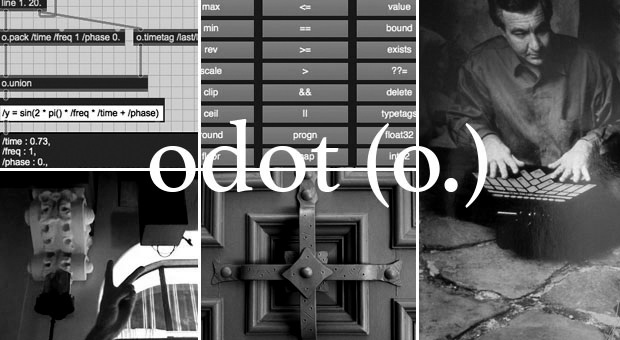
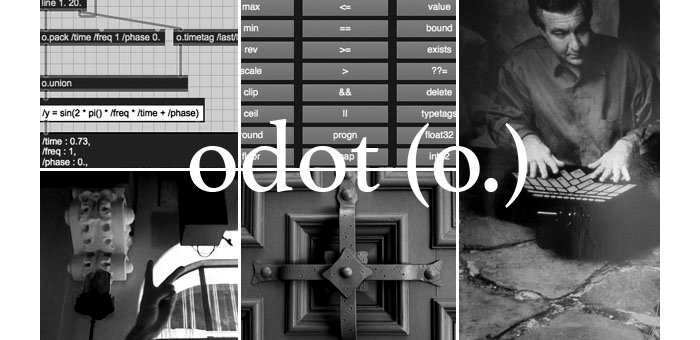
some changes

diff --git a/_includes/head.html b/_includes/head.html
@@ -6,5 +6,5 @@
 	<link rel="stylesheet" href="{{ "/style-colors.css" | prepend: site.baseurl }}">
 	<link rel="shortcut icon" type="image/jpg" href="/assets/favicon.jpg">
 	<link href="https://fonts.googleapis.com/css?family=Open+Sans" rel="stylesheet">
-	<!-- <meta name="viewport" content="width=device-width, initial-scale=1.0"> -->
+	<meta name="viewport" content="width=device-width, initial-scale=1.0">
 </head>

diff --git a/style-layout.css b/style-layout.css
@@ -29,6 +29,10 @@ img[src*="#right"] {
    padding-top: 1.5em;
    padding-bottom: 1.5em;
 }
+img[src*="#smaller"] {
+    padding-top:3em;
+    padding-bottom:3em;
+}
 
 .content {
     margin-top:2em;

diff --git a/_posts/art/audio/2016-09-01-bergen-assembly.md b/_posts/art/audio/2016-09-01-bergen-assembly.md
@@ -2,14 +2,15 @@
 layout: project
 title: "Bergen Assembly opening:  Tarek Atoui's Infinite Ear"
 date: 2016-09-01
-categories: music improvisation collaboration research instrument-design
+categories: sound installation
 ---
 
 Tarek Atoui partnered with [Council](http://www.council.art) to create a masterful installation in the Sentral Badet community space of Bergen, Norway.  My role was to set up the 0.9 instrument, calibrate it to the room, develop the software further with Tarek leading up to rehearsals, and train people on it through subsequent days of the exhibition prep.  We worked with professional musicians and newcoming performers alike, many of them deaf persons.  It was an eye opening experience to see the ways in which something of my own creation could be used to teach people how to create abstract music for the first time in their life.  There were onsite interpreters to translate between sign and spoken language, and many interesting aspects of the space and partitions of the installation to explore and engage in as the time went by.
 
 Some highlights:
 
-- We worked with the [Bit20 Ensemble](http://bit20.no/home-english/) to aid them in particular pieces they would air on 9/2/2016 (the opening).
+- Tarek and I worked with the [Bit20 Ensemble](http://bit20.no/home-english/) to aid them in particular pieces they would air on 9/2/2016 (the opening).
+- Tarek and I worked with deaf performers to learn how to play the [zeropointnine](/research/instrument/zeropointnine.html)
 - [Grégory Castéra and Sandra Terdjman](http://www.council.art/) set up a museum of sonic artifacts around the interior of the space, which taught people about the ways in which sound has been interpreted and used throughout history
 - There was a sound massage room where you could book an appointment for 1 hour increments
 - Johannes Goebel installed his [SubBassProtoTon](http://empac.rpi.edu/events/2017/fall/subbassprototon), which is an acoustic bass generator room construction in which the occupant of the box can control a low tone with a sliding window in which air passes through and creates vibration

diff --git a/_posts/academia/research/2016-04-15-tsar-bell.md b/_posts/academia/research/2016-04-15-tsar-bell.md
@@ -1,0 +1,39 @@
+---
+layout: project
+title: "Recasting the Tsar Bell"
+date: 2016-04-15
+categories: research instrument
+---
+
+# Recasting the Tsar Bell
+
+![tsar bell](/assets/tbell.jpg)
+
+I worked with Chris Chafe, Greg Niemeyer, Edmund Campion, and Perrin Meyer to help realize two pieces in which a reconstructed virtual model of the Tsar Bell used as a performable element.  Since this is/was one of the world's largest bells (although it never rung), it was the interest of a number of researchers to hear it.  [John Granzow](http://bcnm.berkeley.edu/news-research/1568/recasting-the-tsar-bell-with-john-granzow) did a lot of work on the modeling of the bell to 
+
+A quote from Greg Niemeyer on the physical characteristics of bells:
+
+"Although bronze bells don't appear to be elastic, when struck, they deform. The deformation moves throughout the bell, and since the bell is round, the deformation circulates until its energy is absorbed by the environment. The sound comes from the deformation moving the air surrounding the bell. The deformations' constituent frequencies and their amplitudes form waves which define the pitch, volume and timbre of the bell's sound."
+
+[BCNM: Recasting the Tsar Bell](http://bcnm.berkeley.edu/news-research/997/revisited-recasting-the-tsar-bell)
+
+[KQED Article](https://www.kqed.org/arts/11494671/what-does-a-200-ton-bell-sound-like)
+
+#### Performance site: UC Berkeley
+
+[BCNM Event](http://bcnm.berkeley.edu/events/109/special-events/998/recasting-the-tsar-bell)
+
+[Here](https://theta360.com/s/qYS02d3V9RhEg302IAoe6KJpQ) is a 360 degree view of the performance site, near UC Berkeley's Carillon.
+
+Location: UC Berkeley, Berkeley, California
+
+A host of researchers and artist were involved in this project:
+
+- Greg Niemeyer
+- Chris Chafe
+- Edmund Campion
+- Jeff Lubow 
+- Olya Dubatova
+- John Granzow
+- Perrin Meyer
+- DJ Spooky (Paul D. Miller)

diff --git a/index.md b/index.md
@@ -4,10 +4,12 @@ layout: home
 
 ## Jeffrey M. Lubow
 
-I am an interdisciplinary artist and researcher concerned with the space between body and technology. My influences are spread amongst a number of mentors and colleagues the likes of David Wessel, Adrian Freed, Leslie Stuck, John Bischoff, Pauline Oliveros, and Patrick Clancy.
+I am an interdisciplinary artist and researcher concerned with the space between body and technology. My influences are spread amongst a number of mentors and colleagues the likes of [David Wessel](https://asa.scitation.org/doi/10.1121/1.4987551), [Adrian Freed](http://adrianfreed.com/), [Leslie Stuck](http://www.lesstuck.com/), [John Bischoff](http://www.johnbischoff.com/), [Pauline Oliveros](http://www.paulineoliveros.us/), and Patrick Clancy.
 
 I studied conceptual art at the Kansas City Art Institute, and electronic music practice at Mills College in Oakland, California. Since, I have worked with various organizations, including Cycling '74, The Hafter Auditory Perception, and Starkey Hearing Research Center.
 
-In 2008, I commenced a research position at CNMAT (The Center for New Music and Audio Technologies), UC Berkeley, focusing on instrument building, music technology, pedagogy, and experimental software development, where I currently occupy the role of Music Systems Designer.
+In 2008, I commenced a research position at [CNMAT](http://cnmat.berkeley.edu/) (the Center for New Music and Audio Technologies), UC Berkeley, focusing on instrument building, music technology, pedagogy, and experimental software development, where I currently occupy the role of Music Systems Designer.
+
+I perform and record my own music under the moniker 'equilet'.
 
 ![JML](/assets/jmlglasses.png)

diff --git a/_posts/academia/research/2008-11-01-hapl.md b/_posts/academia/research/2008-11-01-hapl.md
@@ -2,12 +2,12 @@
 layout: project
 title: "HAPL: Hafter Auditory Perception Lab"
 date: 2008-11-01
-categories: academia research auditory-scene hearing-science dichotic-listening
+categories: research hearing-science
 ---
 
 HAPL
 ---
-In 2008 I worked with Professor Ervin Hafter on a research project involving dichotic listening. Subjects were invited to answer questions issued in a virtual cocktail party that I programmed, both through visual stimulus on screen and a 48-channel speaker array in an anechoic chamber. The goal was to track how people pay attention with simultaneous streams of information, and how often they are able to tune in subconsciously. This work was completed with both Matlab and Max/MSP/Jitter as the framework, and the interface for the subjects was an array of switches that allowed them to answer the questions, which we could then catalogue.
+In 2008 I worked with Professor Ervin Hafter on a research project involving dichotic listening. Subjects were invited to answer questions issued in a virtual cocktail party that I programmed, both through visual stimulus on screen and a 48-channel speaker array in an anechoic chamber. The goal was to track how people pay attention with simultaneous streams of information, and how often they are able to tune in subconsciously. This work was completed with both Matlab and Max/MSP/Jitter as the framework, and the interface for the subjects was an array of switches that allowed them to answer the questions which we could then catalogue.
 
 ---
 

diff --git a/_posts/academia/research/2008-09-06-rgb-psm.md b/_posts/academia/research/2008-09-06-rgb-psm.md
@@ -1,0 +1,21 @@
+---
+layout: project
+title: "RGB Pressure Sensitive Monome"
+date: 2008-09-06
+categories: research instrument
+---
+
+# RGB pressure sensitive Monome 
+
+
+One of my first projects at [CNMAT](cnmat.berkeley.edu) was a collaboration with Adrian Freed.  Our goal was to build upon ideas present in the Monome, which has the limitation of on/off status for button interactions.
+
+One way to circumvent this is to augment button toggles with pressure so that you simultaneously have pressure in one dimension, and a button with LED feedback in another.  This idea can also be seen captured in newer devices like the Keith McMillen Instruments QuNeo, which has a similar topology, but implemented with MIDI.  Instead of leaving the colorspace at a single LED, we also wanted each LED to have a uniquely addressable/showable color.  Essentially the project became an RGB pressure sensitive Monome.  Adrian had already worked out the tricky bits with resistive fabrics he had been experimenting with, and asked me to get the multiplexing and Arduino code set up.  This project led into a research paper about the various technics and affordances beyond a standard Monome device.
+
+#### My blog post:  [link](http://cnmat.berkeley.edu/content/rgb-pressure-sensitive-monome)
+
+#### Adrian's blog post:  [link](http://cnmat.berkeley.edu/content/rgb-pressure-sensitive-monome-0)
+
+![PCB from early Sparkfun site - button array](/assets/rgb-pads02.png)
+---
+![peel](/assets/rgb-pads01.png)

diff --git a/_posts/academia/pedagogy/2011-07-18-mmjss.md b/_posts/academia/pedagogy/2011-07-18-mmjss.md
@@ -1,0 +1,32 @@
+---
+layout: project
+title: "Max/MSP/Jitter Summer school"
+date: 2011-07-18
+categories: academia pedagogy
+---
+
+# MMJ Summer Course at CNMAT
+
+![David](/assets/davidhands.png)
+
+---
+
+I taught the Max/MSP/Jitter workshop with John MacCallum at CNMAT for the years of 2011, 2012, 2013, 2014, 2015.
+All curriculum for each year was revamped, as we experimented with differing methods of pedagogy.
+
+Topics / content for the morning sessions (and sometimes afternoon slots) included:
+
+- Max Basics 
+- Open Sound Control and ODOT
+- Events and signals, Data types
+- Interactive assignment materials
+- Network communications exercises
+- Integration of advanced concepts and patches
+- Guest lecturers, including Adrian Freed, Andy Schmeder, and David Zicarelli
+- David Wessel's lectures
+
+[2011](http://cnmat.berkeley.edu/event/2011/07/18/cnmat_summer_2011_workshops_max_msp_jitter) //
+[2012](http://cnmat.berkeley.edu/content/cnmat-presents-our-intensive-and-immersive-summer-workshops) //
+[2013](http://cnmat.berkeley.edu/event/2013/07/15/cnmat_max_msp_workshop_july_15_19_2013) //
+[2014](http://cnmat.berkeley.edu/event/2014/07/21/max_msp_day_night_school_july_21_25_2014) //
+[2015](http://cnmat.berkeley.edu/event/2015/07/13/max_msp_day_night_school)

diff --git a/_posts/academia/pedagogy/2017-08-13-odot-immersion.md b/_posts/academia/pedagogy/2017-08-13-odot-immersion.md
@@ -2,16 +2,16 @@
 layout: project
 title: "ODOT (o.) immersion course"
 date: 2017-08-13
-categories: academia pedagogy odot CNMAT
+categories: academia pedagogy
 ---
 
 # ODOT Immersion Course
 
 This course guided students through an introduction into the odot (o.) programming toolkit for Max/MSP.  ODOT helps the Max programmer in gaining more finite control over the ways in which you are sending data between applications in a network.
 
-![odot invite](/assets/odot-course.png)
-
 Participants constructed sophisticated patches with an emphasis on interaction and exploration, while learning strategies and patterns for managing complexity, debugging, testing, and robustness. The course is tailored to artists and developers working with time-based media.
+
+![odot invite](/assets/odot-course.png#smaller)
 
 Background:  odot provides a container, the "odot bundle", an extension of Open Sound Control (OSC), for naming, aggregating, and structuring data. In the Max programming environment, this is supported by a number of externals and patches for creating, manipulating, and displaying these structures. Leveraging this toolkit, students explored the design of complex, real-world patches, with an emphasis on real-time processing.
 

diff --git a/_posts/industry/2014-05-04-djtt.md b/_posts/industry/2014-05-04-djtt.md
@@ -2,15 +2,17 @@
 layout: job
 title: "DJTT:  ENTER / Orbit instrument"
 date: 2014-05-04
-categories: industry research product-design collaborative-music gesture-recognition
+categories: industry product-design
 ---
 
 DJ Techtools:  Orbit Instrument for Richie Hawtin's ENTER exhibition
 ---
-Plastikman's "Enter." club featured an entire level to house "Orbit" - Interactive music table with up to 6 performers (12 hands).
-Worked with team at DJ Techtools to build an interactive music experience for club in Ibiza, Spain.
+Plastikman's "Enter." club featured an entire level to house "Orbit".  Orbit is an interactive music table that allows up to 6 performers (12 hands) to perform collaboratively.
+Worked with team at DJ Techtools to build an interactive music experience for club in Ibiza, Spain.  In addition to headphones, [Subpacs](https://subpac.com/) were used in order to allow performers to differentiate the low frequencies coming from their input from adjacent rooms in which DJing was happening.  
 
-[Ibiza link](http://enteribiza.com/?p=1045)
+[Enter](http://enterexperience.com/)
+
+[Subpac](https://subpac.com/enter-ibiza/)
 
 ---
 

diff --git a/_posts/academia/research/2008-10-13-ssr.md b/_posts/academia/research/2008-10-13-ssr.md
@@ -2,11 +2,13 @@
 layout: project
 title: "Subjective Spaces in Hearing Research"
 date: 2008-10-13
-categories: academia research auditory-scene hearing-science hearing-aid
+categories: research hearing-science
 ---
 
-CNMAT research with SHRC (Starkey Hearing Research Laboratories)
+# CNMAT research with SHRC (Starkey Hearing Research Laboratories)
+
 ---
+
 In 2008, I started work with [CNMAT](http://cnmat.berkeley.edu/) on a research project with the late David Wessel, involving the development of hearing aids. Other PIs were Brent Edwards, Sridhar Kalluri, and Kelly Fitz.  Subjects were able to use our test suite to custom calibrate a 16-band compressor in order to come up with weighted interpolations that made more sense to them than a standard preset. The goal was to put the hearing impaired in control rather than administering fittings for customers without feedback. We then compared these choices with the outcome of a neural network in order to do further research and analyses on the data. This work was done in Max/MSP, and the UI had to be used by people with no knowledge of programming.
 
 ---

diff --git a/_posts/art/audio/2014-04-05-modulations.md b/_posts/art/audio/2014-04-05-modulations.md
@@ -1,0 +1,29 @@
+---
+layout: project
+title: "Modulations Festival w/ Reza Ali"
+date: 2014-04-05
+categories: sound performance
+---
+
+2014 Modulations Festival
+
+![mod](/assets/modulations.png)
+
+Carr Wilkerson invited me to be a featured artist in 2014's Modulations festival.  It was a great opportunity to catch up with a number of folks I'd gotten to know there over the years, and to spend some time working in their facilities leading up to the show.  Dave Kerr did a great job documenting.  I had a fun time in the collaboration with [Reza Ali](https://www.syedrezaali.com/) who performed visual magic during my set.
+
+[Reza's documentation](https://www.syedrezaali.com/ccrmamodulations/)
+
+---
+
+Themes
+
+- Improvisation
+- Collaboration
+
+---
+
+
+
+
+
+
